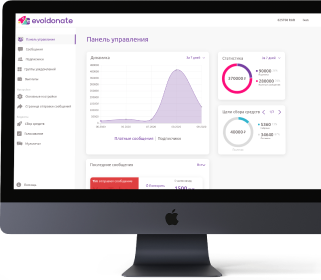
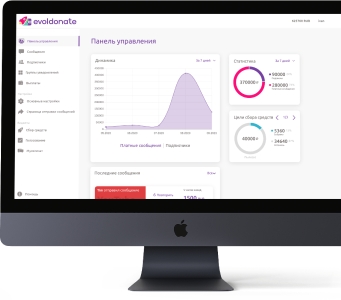
add scrins

diff --git a/src/store/redusers/works.js b/src/store/redusers/works.js
@@ -78,8 +78,12 @@ const initialState = [
     ],
     stack: ['Javascript', 'Vue.js / Vuex', 'PHP (Laravel)', 'PostgreSQL'],
     mainTech: 'Vue.js',
-    images: [],
-    mainImage: `${url}tips/main.jpg`,
+    images: [`${url}tips/1.png`, `${url}tips/2.png`, `${url}tips/3.png`, `${url}tips/4.png`,
+      `${url}tips/5.png`, `${url}tips/6.png`, `${url}tips/7.png`, `${url}tips/8.png`,
+      `${url}tips/9.png`, `${url}tips/10.png`, `${url}tips/11.png`, `${url}tips/12.png`],
+    mainImage: `${url}tips/main.png`,
+    mainImage2: `${url}tips/main2.png`,
+    imagesWidth: '90%',
     github: null,
     url: 'http://evolpay.ru/tips',
     main: true,
@@ -99,8 +103,10 @@ const initialState = [
     ],
     stack: ['Javascript', 'jQuery', 'PHP (Laravel)', 'PostgreSQL', 'Bootstrap 4',],
     images: [`${url}evolpay/1.png`, `${url}evolpay/2.png`, `${url}evolpay/3.png`, `${url}evolpay/4.png`,
-      `${url}evolpay/5.png`, `${url}evolpay/6.png`, `${url}evolpay/7.png`, `${url}evolpay/8.png`],
+      `${url}evolpay/5.png`, `${url}evolpay/6.png`, `${url}evolpay/7.png`, `${url}evolpay/8.png`,
+      `${url}evolpay/9.png`, `${url}evolpay/10.png`],
     mainImage: `${url}evolpay/main.png`,
+    mainImage2: `${url}evolpay/main2.png`,
     imagesWidth: '90%',
     github: null,
     url: 'http://evolpay.ru',
@@ -123,6 +129,7 @@ const initialState = [
       `${url}evoldonate/5.png`, `${url}evoldonate/6.png`, `${url}evoldonate/7.png`, `${url}evoldonate/8.png`,
       `${url}evoldonate/9.png`, `${url}evoldonate/10.png`, `${url}evoldonate/11.png`, `${url}evoldonate/12.png`],
     mainImage: `${url}evoldonate/main.png`,
+    mainImage2: `${url}evoldonate/main2.png`,
     imagesWidth: '90%',
     github: null,
     url: 'http://evolpay.ru',
@@ -149,7 +156,7 @@ const initialState = [
     class: 'yellow'
   },
   {
-    id: 5,
+    id: 13,
     title: 'Shopping List',
     mainTech: 'Vue.js',
     desc: `Service of shopping lists that can be edited by several users. Lists can be sent to other users. In
@@ -161,38 +168,18 @@ const initialState = [
       "I wrote a service in an adaptive format",
       "Created like PWA"
     ],
-    stack: ['Javascript', 'Vue.js / Vuex', 'PHP (Laravel)', 'PostgreSQL', "Bootstrap 4"],
-    images: [`${url}home-wallet/1.jpg`, `${url}home-wallet/2.jpg`, `${url}home-wallet/3.jpg`,
-      `${url}home-wallet/4.jpg`, `${url}home-wallet/5.jpg`],
-    mainImage: ``,
-    imagesWidth: '90%',
+    stack: ['Javascript', 'Vue.js / Vuex', 'PHP (Laravel)', 'PostgreSQL'],
+    images: [`${url}shopping-list/1.png`, `${url}shopping-list/2.png`, `${url}shopping-list/3.png`, `${url}shopping-list/4.png`,
+      `${url}shopping-list/5.png`, `${url}shopping-list/6.png`, `${url}shopping-list/7.png`, `${url}shopping-list/8.png`,],
+    mainImage: `${url}shopping-list/main.png`,
+    mainImage2: `${url}shopping-list/main2.png`,
+    imagesWidth: '40%',
     github: null,
     url: null,
     main: true,
-    class: 'yellow'
+    class: 'blue'
   },
-  {
-    id: 5,
-    title: 'My portfolio',
-    mainTech: 'React.js',
-    desc: `Portfolio with a short description of me and a list of my works`,
-    myWork: [
-      'Completely wrote the Frontend and Backend part for this project.',
-      "I wrote a service in an adaptive format"
-    ],
-    stack: ['React.js', 'Redux'],
-    images: [`${url}home-wallet/1.jpg`, `${url}home-wallet/2.jpg`, `${url}home-wallet/3.jpg`,
-      `${url}home-wallet/4.jpg`, `${url}home-wallet/5.jpg`],
-    mainImage: ``,
-    imagesWidth: '50%',
-    github: null,
-    url: null,
-    main: true,
-    class: 'yellow'
-  },
-
 ]
-
 
 export default function worksReducer(state = initialState, action) {
   return state

diff --git a/src/components/WorkBlock/WorkBlock.css b/src/components/WorkBlock/WorkBlock.css
@@ -64,7 +64,6 @@
 .work-block:hover .first {
     opacity: 0;
     transition: .5s;
-    /*animation: opacity .3s;*/
 }
 .work-block:hover .second {
     opacity: 1;
@@ -73,17 +72,15 @@
 @keyframes opacity {
     from {
         opacity: 1;
-        /*transition: .3s;*/
     }
     to {
         opacity: 0;
-        /*transition: .3s;*/
     }
 }
 @media (min-width: 1900px) {
     .work-block {
-        width: 30%;
-        margin: 0 1.5% 60px 1.5%;
+        width: 31%;
+        margin: 0 1% 60px 1%;
     }
 }
 @media (max-width: 768px) {
